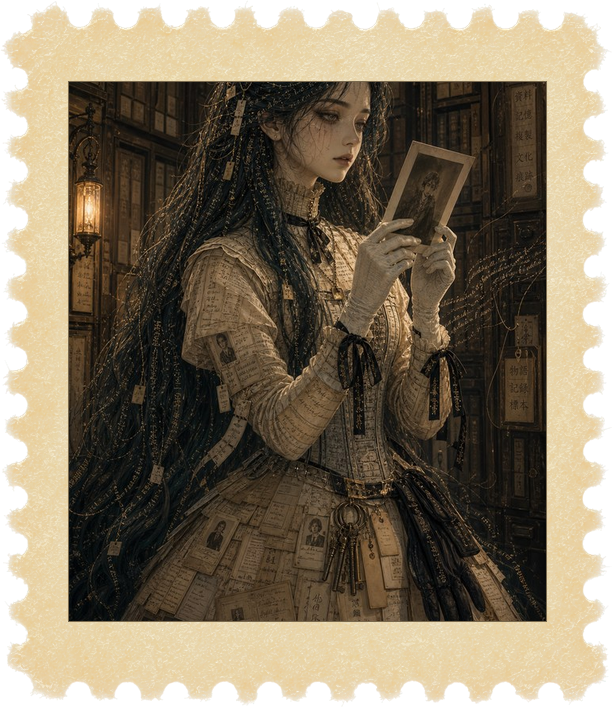
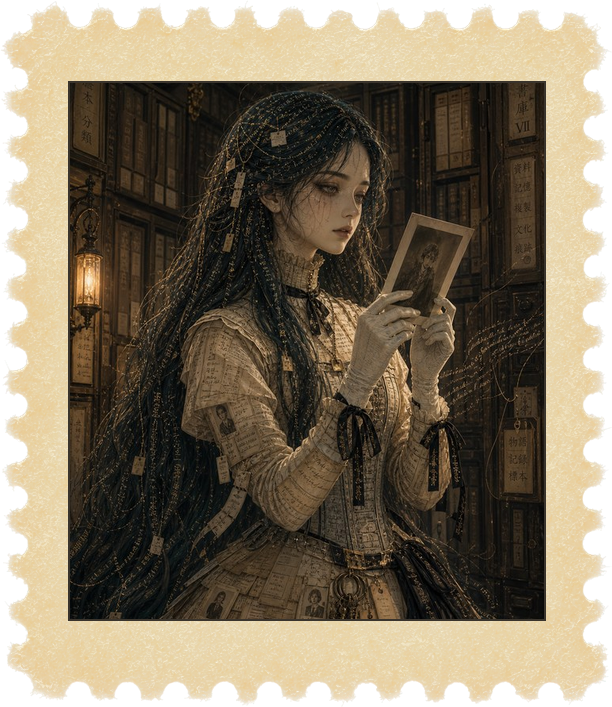
Titles clear the stamp; stamps no longer crop the portraits' heads
- title width capped at the stamp's left edge, so long English names
  (Runaway Checkpoint, Memoria Libra) wrap instead of running under the
  stamp; verified across all eight citizens in both languages.
- all eight stamps recomposed: the crop window is now placed per portrait
  by where the head sits, instead of a single centered window. Sigma's
  and Pharma's heads were cut off entirely, Memoria's and Leimma's clipped.

diff --git a/index.html b/index.html
@@ -88,8 +88,10 @@
   /* 文字不垫任何底（否定台账 #27：不遮挡底材素材）。可读性靠排布：
      正文列避开纸缘实物（默认 25%–78%，个别纸再由 --padl/--padw 调） */
   .pcontent{position:absolute;top:var(--ptop,6.5%);left:var(--padl,25%);width:var(--padw,53%);color:#41372a;}
+  /* 标题限宽到邮票左边界之内：中文名短、英文名长（Runaway Checkpoint、Memoria Libra），
+     不限宽就会伸到邮票底下。超出的换行，标题占两行也比压着邮票好。 */
   .pcontent h2{font-size:calc(3*var(--u));font-weight:600;letter-spacing:.3em;margin:0 0 calc(.4*var(--u));
-    margin-left:var(--tpad,0px);}
+    margin-left:var(--tpad,0px);max-width:var(--titlew,100%);line-height:1.25;}
   .pcontent .code{font-size:calc(1.05*var(--u));letter-spacing:.3em;color:var(--dim);text-transform:uppercase;
     font-style:italic;margin-bottom:calc(1.2*var(--u));margin-left:var(--tpad,0px);}
   .writing{position:relative;}
@@ -662,6 +664,10 @@ function open(who, fromHistory){
   pcontent.style.setProperty('--ptop', (pad[2]||6.5)+'%');
   pcontent.style.setProperty('--tpad', pad[3] ? 'calc('+pad[3]+'*var(--u))' : '0px');
   pcontent.style.setProperty('--bgap', (pad[4]!==undefined) ? 'calc('+pad[4]+'*var(--u))' : 'calc(6.2*var(--u))');
+  // 标题可用宽度 = 邮票左边界(59%) − 文字列左边界 − 标题缩进，换算成内容列的百分比
+  var padl = pad[0]||25, padw = pad[1]||53, tpad = pad[3]||0;
+  var titleW = Math.max(30, (59 - padl - tpad) / padw * 100);
+  pcontent.style.setProperty('--titlew', titleW + '%');
   var bio=document.getElementById('bio-'+who);
   var bioHtml;
   if(LANG==='en'){
